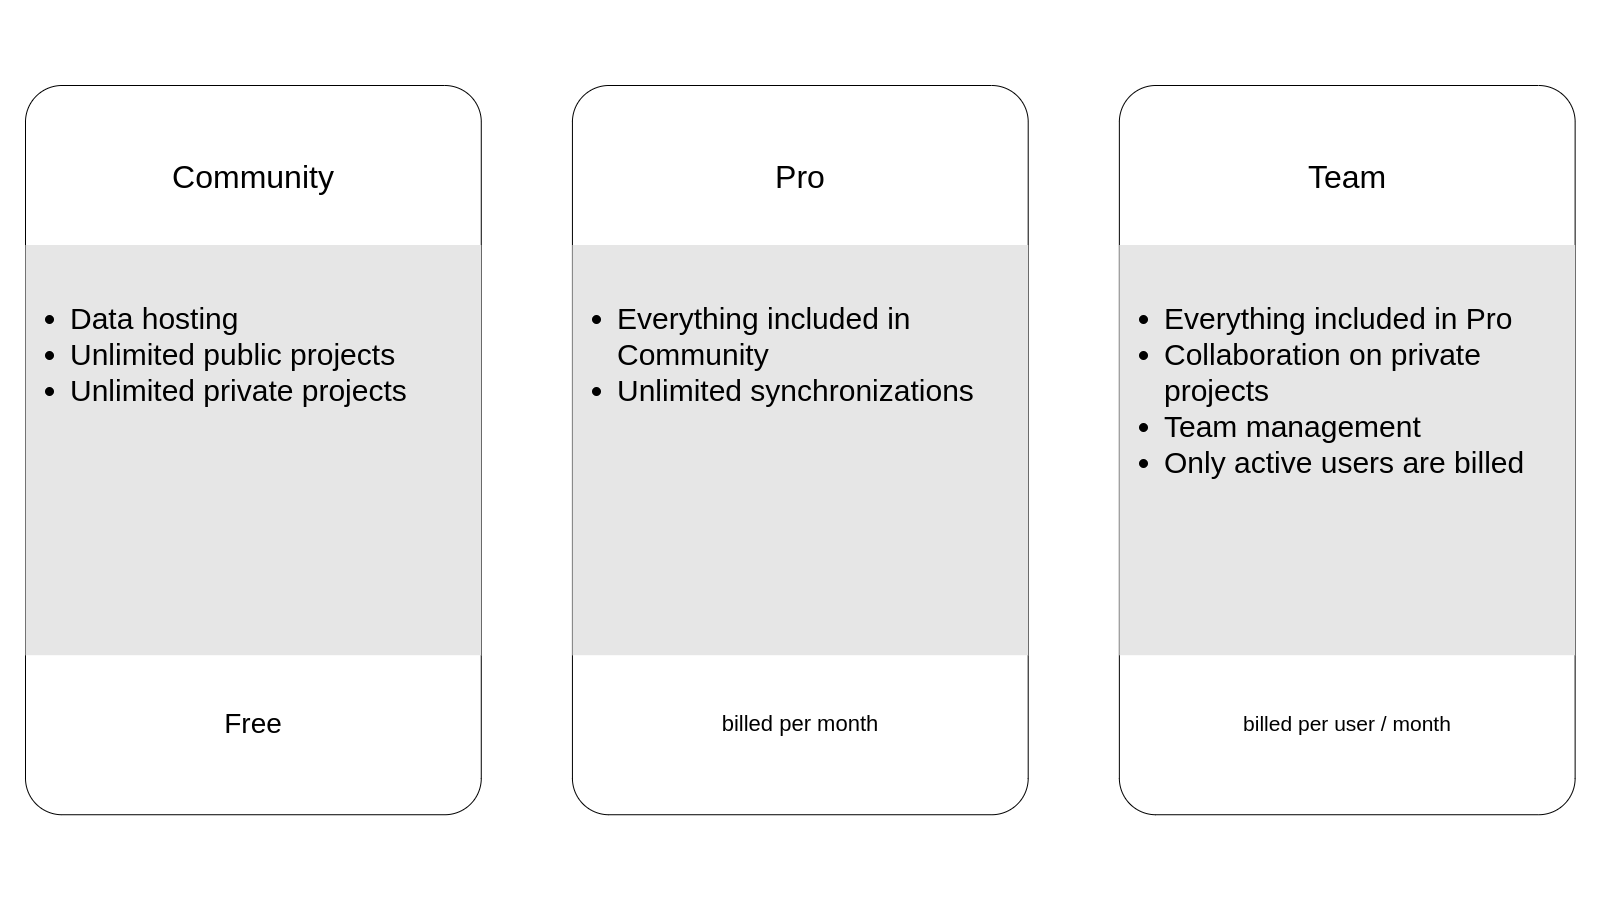
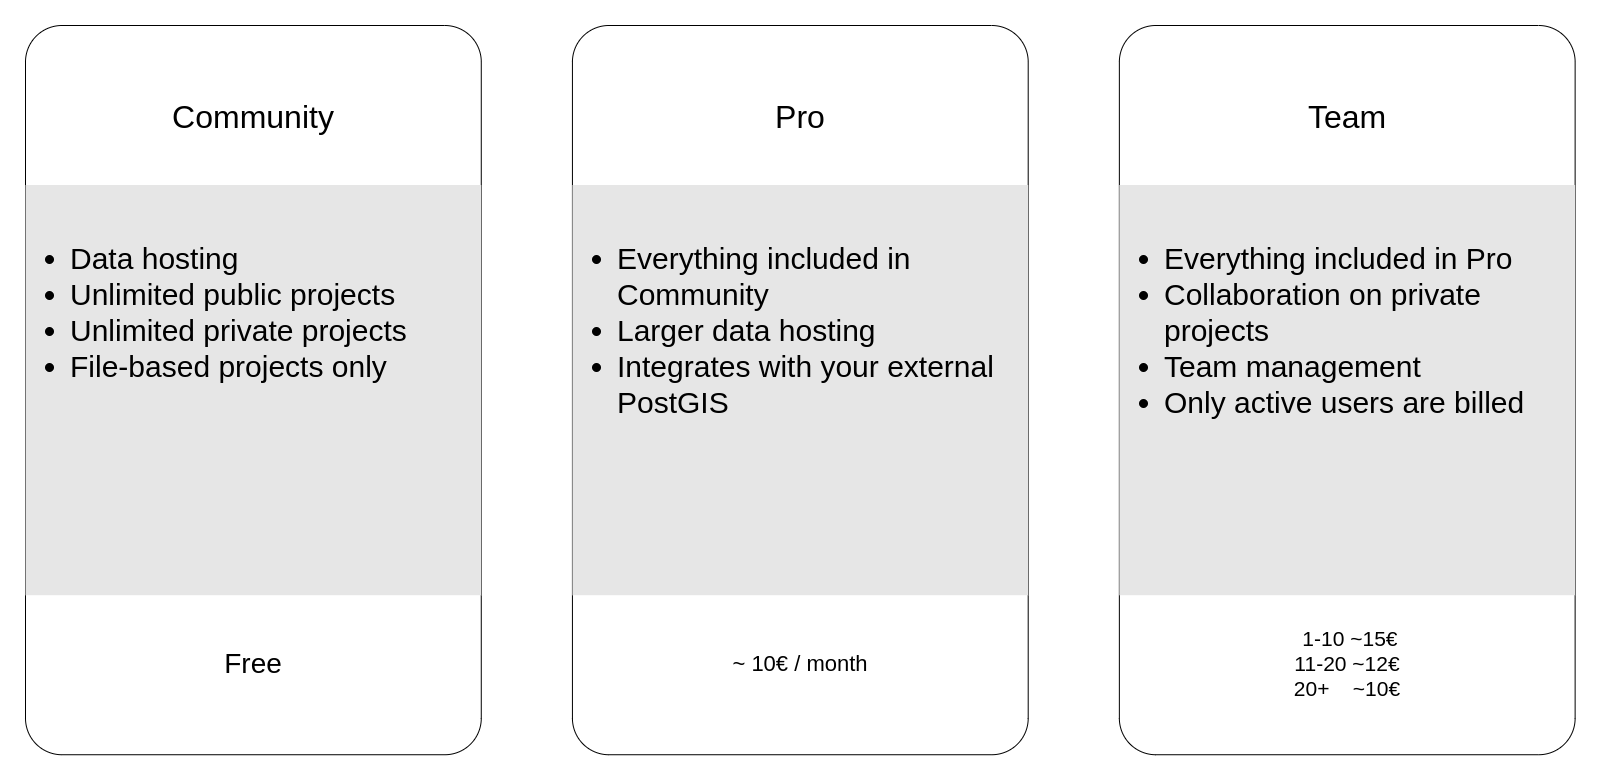
updated pricing slide

diff --git a/qfieldcloud/index.html b/qfieldcloud/index.html
@@ -54,7 +54,7 @@
 </div>
 <div><img src="assets/pricing.png">
     <br/><br/><br/>
-    <blue_stroke>Individual and team pricing</blue_stroke>
+    <blue_stroke>Individuals and teams</blue_stroke>
 </div>
 
 
